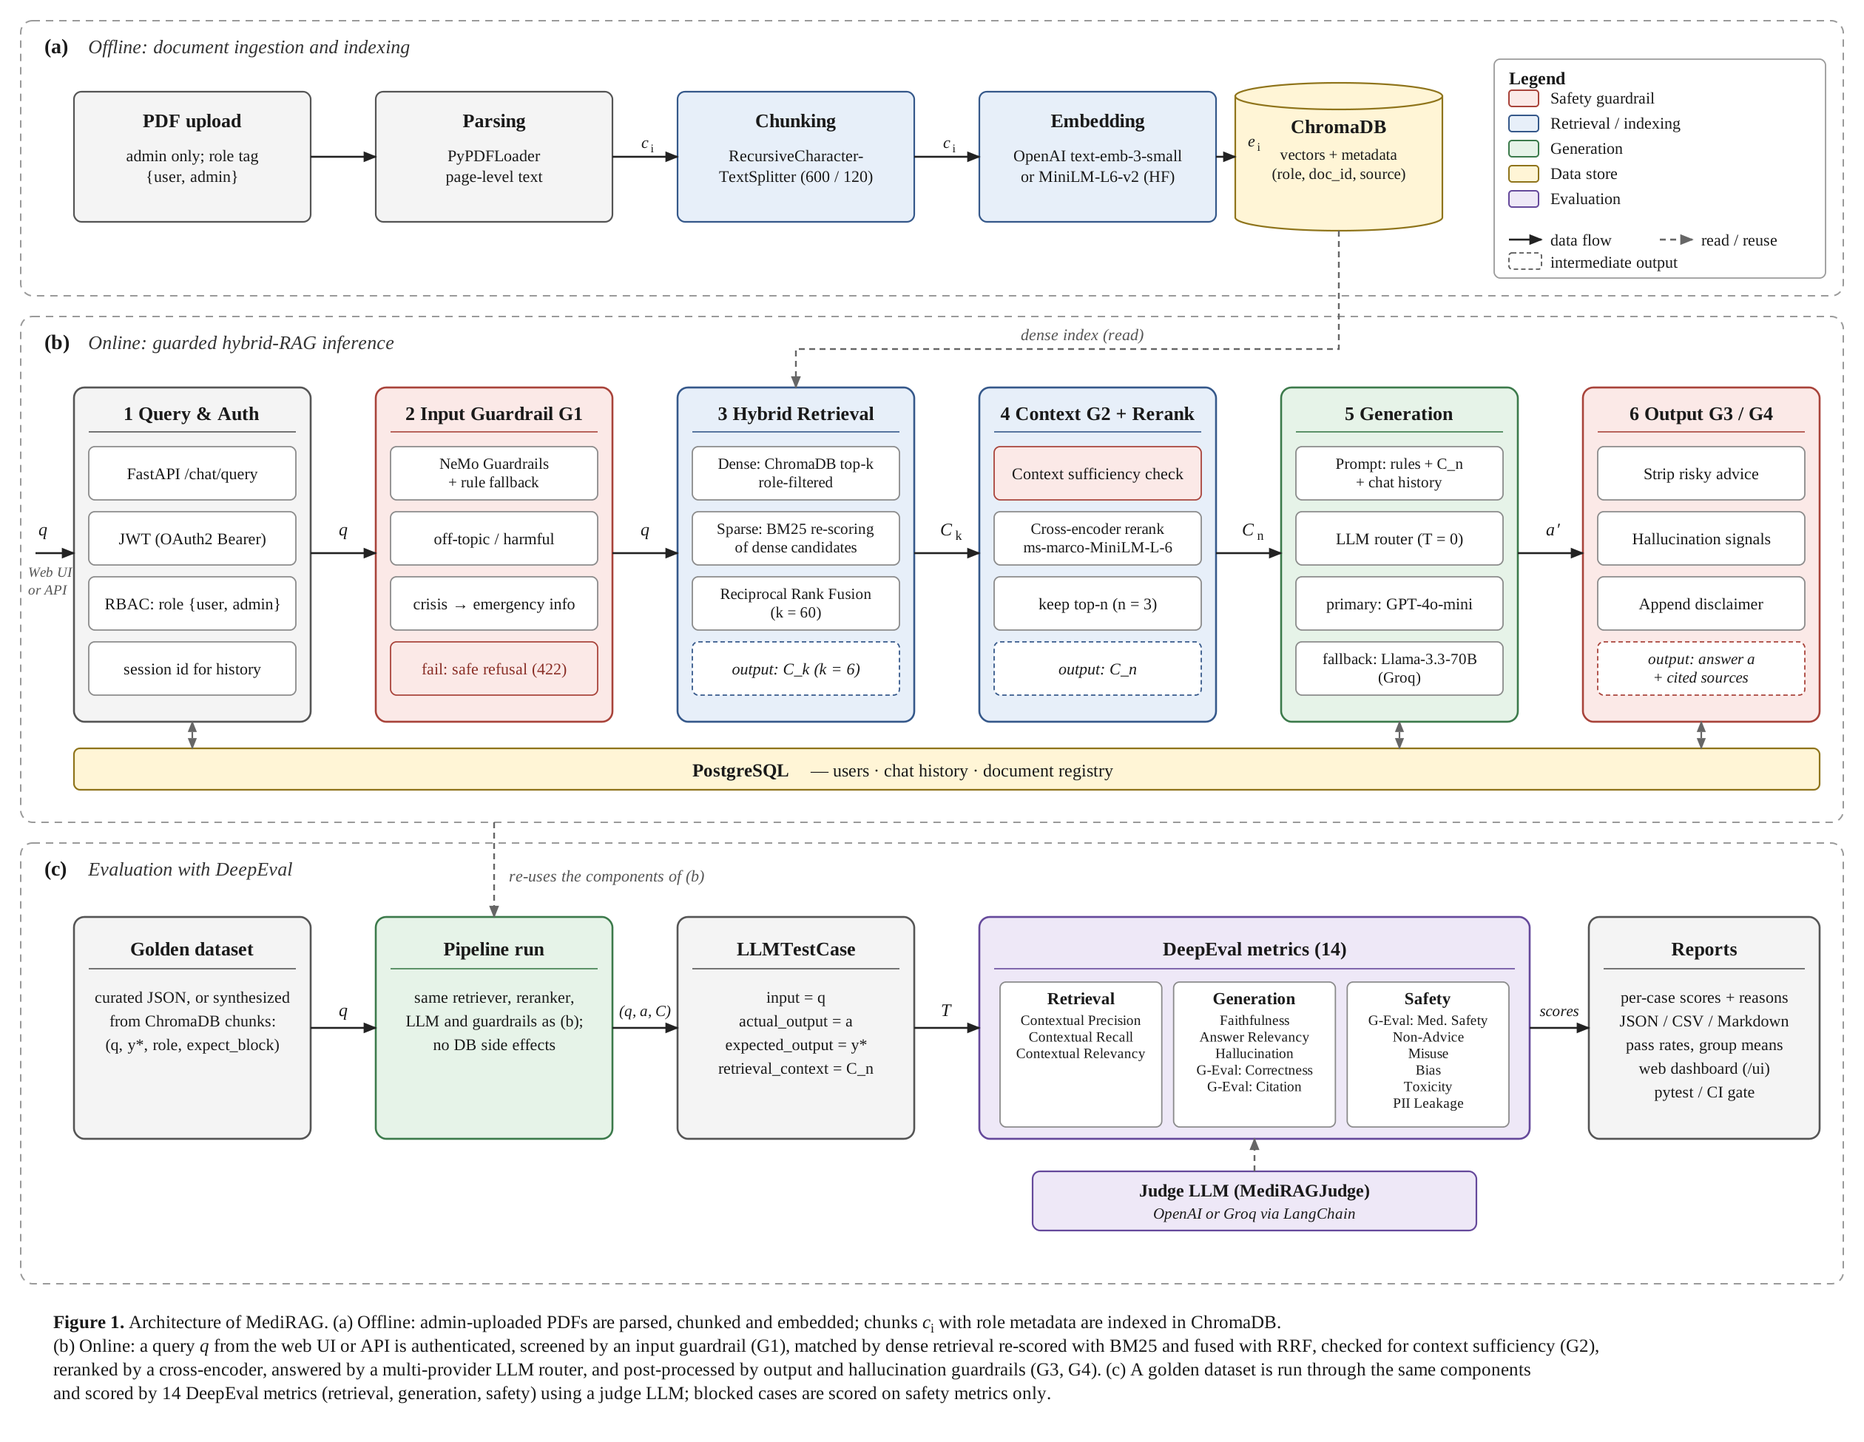
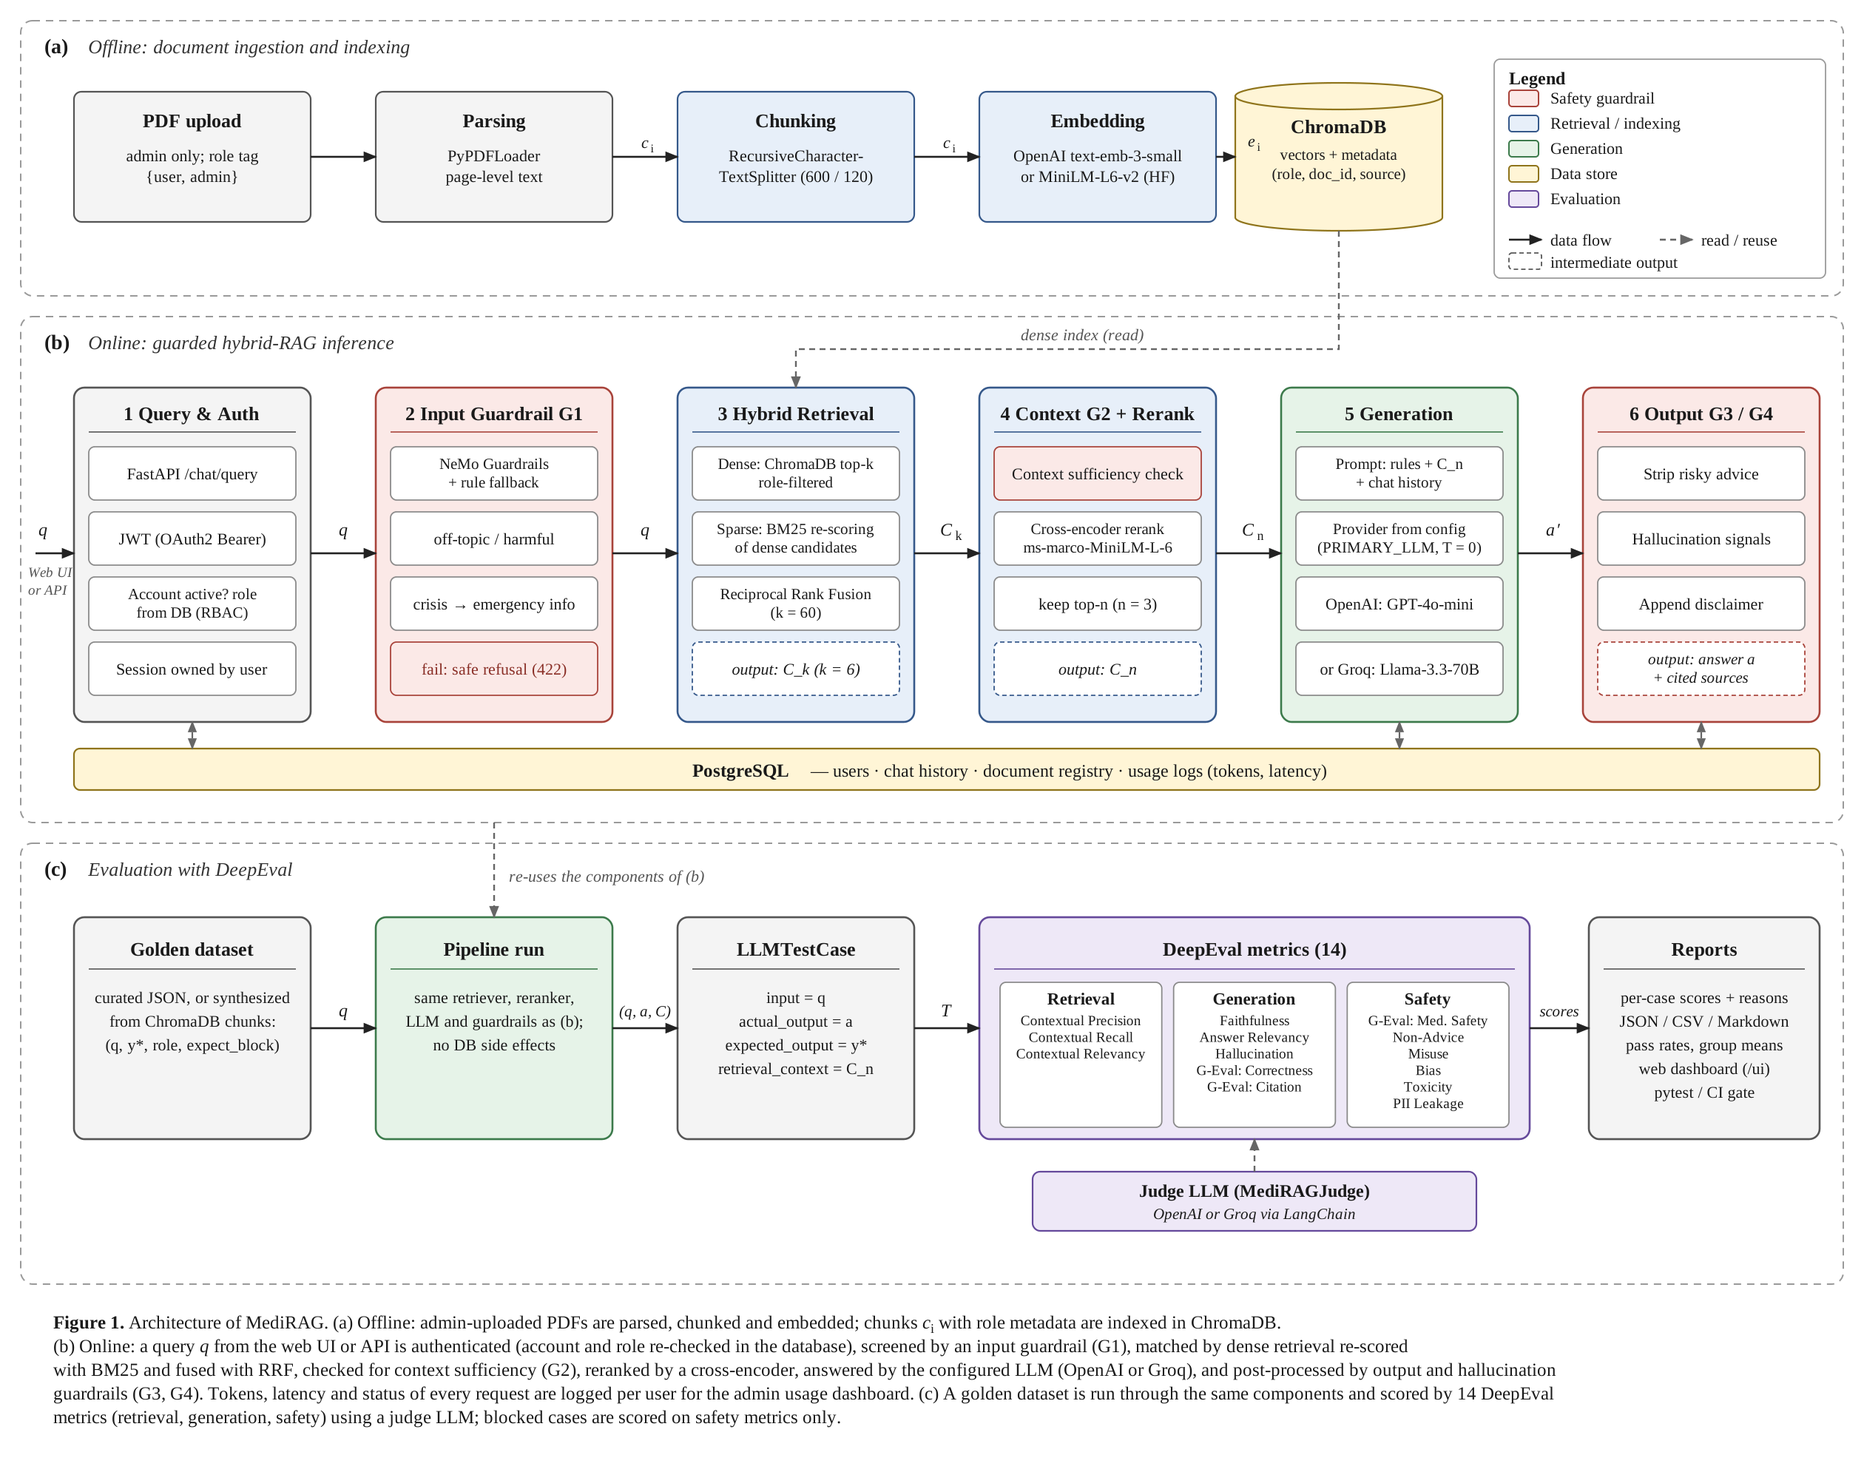
docs: usage dashboard, role model, accurate LLM-provider description; diagram shows account check, config-selected LLM and usage logs

diff --git a/docs/generate_architecture.py b/docs/generate_architecture.py
@@ -5,7 +5,7 @@
 """
 from xml.sax.saxutils import escape
 
-W, H = 1260, 975
+W, H = 1260, 995
 FONT = "'Times New Roman', Times, 'Liberation Serif', 'Nimbus Roman', serif"
 INK = "#1a1a1a"
 
@@ -120,7 +120,7 @@ xs = [50 + i * 204 for i in range(6)]
 stages = [
     ("1  Query &amp; Auth", "neutral", [
         ("FastAPI  /chat/query", None), ("JWT (OAuth2 Bearer)", None),
-        ("RBAC: role {user, admin}", None), ("session id for history", None)]),
+        ("Account active? role\nfrom DB (RBAC)", None), ("Session owned by user", None)]),
     ("2  Input Guardrail G1", "guard", [
         ("NeMo Guardrails\n+ rule fallback", None), ("off-topic / harmful", None),
         ("crisis -> emergency info", None), ("fail: safe refusal (422)", "red")]),
@@ -131,8 +131,8 @@ stages = [
         ("Context sufficiency check", "guard"), ("Cross-encoder rerank\nms-marco-MiniLM-L-6", None),
         ("keep top-n  (n = 3)", None), ("output: C_n", "io")]),
     ("5  Generation", "gen", [
-        ("Prompt: rules + C_n\n+ chat history", None), ("LLM router  (T = 0)", None),
-        ("primary: GPT-4o-mini", None), ("fallback: Llama-3.3-70B\n(Groq)", None)]),
+        ("Prompt: rules + C_n\n+ chat history", None), ("Provider from config\n(PRIMARY_LLM, T = 0)", None),
+        ("OpenAI: GPT-4o-mini", None), ("or Groq: Llama-3.3-70B", None)]),
     ("6  Output G3 / G4", "guard", [
         ("Strip risky advice", None), ("Hallucination signals", None),
         ("Append disclaimer", None), ("output: answer a\n+ cited sources", "io")]),
@@ -171,7 +171,7 @@ txt(19, yb + 140, "or API", size=9.5, style="italic", anchor="start", fill="#555
 ys = 506
 rect(50, ys, 1180, 28, *PAL["store"], rx=4, sw=1.1)
 txt(468, ys + 19, "PostgreSQL", size=12.5, weight="bold", anchor="start")
-txt(548, ys + 19, "&#8212;  users  &#183;  chat history  &#183;  document registry", size=12, anchor="start")
+txt(548, ys + 19, "&#8212;  users  &#183;  chat history  &#183;  document registry  &#183;  usage logs (tokens, latency)", size=12, anchor="start")
 for i, d in ((0, True), (4, True), (5, False)):
     cx = xs[i] + wb / 2
     arrow([(cx, yb + hb), (cx, ys)] if not d else [(cx, yb + hb), (cx, ys)], color="#666", dash="4 3", marker="ag", sw=1.1, both=True)
@@ -236,9 +236,10 @@ txt(344, 596, "re-uses the components of (b)", size=11, style="italic", anchor="
 # ═══════════════ caption ═══════════════
 cap = [
     '<tspan font-weight="bold">Figure 1.</tspan> Architecture of MediRAG. (a) Offline: admin-uploaded PDFs are parsed, chunked and embedded; chunks <tspan font-style="italic">c</tspan><tspan font-size="9" dy="3">i</tspan><tspan dy="-3"> </tspan>with role metadata are indexed in ChromaDB.',
-    '(b) Online: a query <tspan font-style="italic">q</tspan> from the web UI or API is authenticated, screened by an input guardrail (G1), matched by dense retrieval re-scored with BM25 and fused with RRF, checked for context sufficiency (G2),',
-    'reranked by a cross-encoder, answered by a multi-provider LLM router, and post-processed by output and hallucination guardrails (G3, G4). (c) A golden dataset is run through the same components',
-    'and scored by 14 DeepEval metrics (retrieval, generation, safety) using a judge LLM; blocked cases are scored on safety metrics only.',
+    '(b) Online: a query <tspan font-style="italic">q</tspan> from the web UI or API is authenticated (account and role re-checked in the database), screened by an input guardrail (G1), matched by dense retrieval re-scored',
+    'with BM25 and fused with RRF, checked for context sufficiency (G2), reranked by a cross-encoder, answered by the configured LLM (OpenAI or Groq), and post-processed by output and hallucination',
+    'guardrails (G3, G4). Tokens, latency and status of every request are logged per user for the admin usage dashboard. (c) A golden dataset is run through the same components and scored by 14 DeepEval',
+    'metrics (retrieval, generation, safety) using a judge LLM; blocked cases are scored on safety metrics only.',
 ]
 for i, l in enumerate(cap):
     txt(36, 898 + i * 16, l, size=12.5, anchor="start")

diff --git a/README.md b/README.md
@@ -49,7 +49,8 @@ RAG Medical Assistant is a production-ready Retrieval-Augmented Generation syste
 
 | Feature | Details |
 |---|---|
-| 🤖 Multi-model LLM | OpenAI gpt-4o-mini (primary) → Groq llama-3.3-70b (auto-fallback) |
+| 🤖 Two LLM providers | OpenAI gpt-4o-mini **or** Groq llama-3.3-70b, chosen at startup by `PRIMARY_LLM` (Groq is used when no OpenAI key is set); no automatic runtime failover |
+| 📊 Usage dashboard | Admin sees users, requests per user, tokens and estimated LLM cost; can disable accounts |
 | 🔍 Hybrid Search | Semantic (ChromaDB) + BM25 keyword + RRF fusion |
 | 🎯 Reranking | Cross-encoder ms-marco-MiniLM — reduces hallucination |
 | 🛡 4-Layer Guardrails | Input · Context · Output · Hallucination detection |
@@ -72,9 +73,13 @@ RAG Medical Assistant is a production-ready Retrieval-Augmented Generation syste
 | `POST` | `/api/v1/auth/signup` | — | Register user |
 | `POST` | `/api/v1/auth/login` | — | Login → JWT token |
 | `POST` | `/api/v1/documents/upload` | Admin | Upload PDF |
-| `GET` | `/api/v1/documents/list` | User | List accessible docs |
+| `GET` | `/api/v1/documents/list` | Admin | List all documents |
 | `POST` | `/api/v1/chat/query` | User | Ask a medical question |
 | `GET` | `/api/v1/chat/history/{session_id}` | User | Get chat history |
+| `GET` | `/api/v1/admin/usage/summary?days=7` | Admin | KPIs, requests per day, per-model totals |
+| `GET` | `/api/v1/admin/usage/users?days=7` | Admin | Every user: requests, tokens, est. cost, last login |
+| `GET` | `/api/v1/admin/usage/recent` | Admin | Latest requests (metadata only) |
+| `PATCH` | `/api/v1/admin/users/{username}/active` | Admin | Enable / disable an account |
 | `GET` | `/api/v1/evaluation/options` | Admin | Metrics, datasets, judge status |
 | `POST` | `/api/v1/evaluation/run` | Admin | Start a DeepEval run (background job) |
 | `POST` | `/api/v1/evaluation/datasets/synthesize` | Admin | Generate a test set from indexed documents |
@@ -139,15 +144,16 @@ Open **http://localhost:8000**. The first start is slower: PostgreSQL tables are
 2. **Documents tab → Upload a document.** Pick a PDF and who may use it:
    *Everyone* (users **and** admins can retrieve it) or *Admins only*. It is parsed, chunked and indexed.
 3. **Chat tab** — ask a few questions to sanity-check the answers and the cited sources.
-4. **Evaluation tab** (admin only):
+4. **Usage tab** — see who is using the chatbot (see *Reading the Usage tab* below) and disable accounts if needed.
+5. **Evaluation tab** (admin only):
    1. Click **Generate test set from my documents** (the judge LLM writes a question + reference answer per sampled chunk). The bundled `golden_dataset.json` is generic and will score poorly on *your* documents.
    2. Choose the metrics (all 14 by default), optionally limit the number of cases (start with 5–10), and press **Run evaluation**. A progress bar follows the job; the page stays usable.
    3. Read the dashboard (see below). Download **MD / CSV / JSON** for reports or papers.
 
 ### 3 · Normal user workflow
 
-1. **Sign up** as *User* (no code needed) and log in.
-2. **Chat tab** → type a medical question (or click an example). You get:
+1. **Sign up** as *User* (no code needed) and log in. Every request needs a valid login; an admin can disable your account at any time (you are then signed out immediately).
+2. Users only **chat** — they never see Documents, Usage or Evaluation. **Chat tab** → type a medical question (or click an example). You get:
    - an answer built **only from the documents you have access to**, ending with a medical disclaimer;
    - **source chips** — click one to see the passage that was used;
    - a refusal bubble (yellow) if the safety guardrails block the request (off-topic, harmful, crisis…).
@@ -156,13 +162,35 @@ Open **http://localhost:8000**. The first start is slower: PostgreSQL tables are
 
 | | User | Admin |
 |---|:-:|:-:|
-| Chat, sources, history | ✅ | ✅ |
+| Chat, sources, own chat history | ✅ | ✅ |
 | Retrieves documents tagged *Everyone* | ✅ | ✅ |
 | Retrieves documents tagged *Admins only* | ❌ | ✅ |
-| Upload documents | ❌ | ✅ |
+| See / upload documents (Documents tab) | ❌ | ✅ |
+| Usage dashboard, enable/disable users | ❌ | ✅ |
 | Evaluation tab / `/evaluation/*` API | ❌ | ✅ |
 
-### 4 · Reading the evaluation dashboard
+The server re-checks the account **in the database on every request**, so disabling or demoting a user takes
+effect immediately (not when their token expires). Chat sessions are private to the user who started them — even admins cannot read another user's chat.
+
+### 4 · Reading the Usage tab (admin)
+
+Pick a range (24 h · 7 d · 30 d · 90 d · all time); the page refreshes every 30 s.
+
+- **KPI cards** — registered users, *active users* (sent ≥ 1 request in the range), requests (with blocked / error counts),
+  LLM tokens (prompt in · completion out), **estimated** LLM cost, average response time.
+- **Requests per day** chart (hover a bar for tokens and users) and a **per-model** table.
+- **Users table** — every registered user, even those with 0 requests: requests, blocked / errors, tokens in / out / total,
+  estimated cost, average latency, last request, last login. Click a username to see only their recent requests.
+  **Disable / Enable** blocks or restores an account (you cannot disable yourself).
+- **Recent requests** — time, user, result (`ok` / `blocked` / `error`), model, tokens, latency.
+
+What is (not) recorded: per request only *metadata* (user, time, status, model, tokens, latency) — **never the question or answer text**.
+Tokens are the provider's reported usage (a ~4 chars/token estimate is used only if a provider reports none). Cost is an **estimate**
+from a built-in price table (`app/core/pricing.py`) — verify against your provider's pricing and override with
+`LLM_PRICE_INPUT_PER_1M` / `LLM_PRICE_OUTPUT_PER_1M`. Only the main answer-generation call is counted: NeMo guardrail
+calls and the evaluation judge are **not** included. Usage rows are kept indefinitely (no retention job yet).
+
+### 5 · Reading the evaluation dashboard
 
 - **Bars** show each metric's mean score (0–1); the black tick is the pass threshold. **↓** metrics
   (Hallucination, Bias, Toxicity) are *lower-is-better*. Colour follows the **pass rate** (green ≥ 80 %, amber ≥ 50 %).
@@ -173,7 +201,7 @@ Open **http://localhost:8000**. The first start is slower: PostgreSQL tables are
 - **Guardrail accuracy** = share of cases where the guardrail blocked exactly what the dataset says it should.
 - Every case makes several judge-LLM calls, so a run **costs API tokens** and takes minutes. Set `EVAL_JUDGE_MODEL` to a stronger model for more reliable judging. Only one run can be active at a time; finished reports are kept in `evaluation/reports/`.
 
-### 5 · Using the API directly (optional)
+### 6 · Using the API directly (optional)
 
 ```bash
 BASE=http://localhost:8000/api/v1
@@ -185,15 +213,16 @@ curl -X POST $BASE/chat/query -H "Authorization: Bearer $TOKEN" -H 'Content-Type
      -d '{"message":"What are the symptoms of diabetes?","session_id":"demo-1"}'
 ```
 
-Admin-only calls (`/documents/upload`, `/evaluation/run`, …) need an admin token — see the interactive docs at `/docs`.
+Admin-only calls (`/documents/upload`, `/documents/list`, `/admin/usage/*`, `/evaluation/*`) need an admin token — see the interactive docs at `/docs`.
 
-### 6 · Good to know
+### 7 · Good to know
 
 - This is an **educational tool, not medical advice**; answers are limited to your uploaded documents.
 - Evaluation test cases run with the dataset's `role` (default `user`), so only documents tagged *Everyone* are evaluated.
 - Evaluation job *status* lives in memory (lost on restart); finished *reports* are files and persist.
 - Hybrid retrieval re-scores the dense (ChromaDB) candidates with BM25 and fuses both rankings with RRF; BM25 does not search the whole corpus independently.
-- Known limitation: `GET /chat/history/{session_id}` does not check that the session belongs to the caller — session ids are random UUIDs, but treat them as secrets.
+- The LLM provider is chosen at startup (`PRIMARY_LLM`, or Groq if there is no OpenAI key). There is no automatic switch to the other provider if a call fails — the user gets an error and it is logged as `error` in the Usage tab.
+- Chat sessions that existed before the ownership feature have no owner and are no longer readable through the API.
 
 ---
 
@@ -213,7 +242,7 @@ docker compose down              # Stop
 | Variable | Required | Default | Description |
 |---|---|---|---|
 | `OPENAI_API_KEY` | ✅* | — | OpenAI key (*or Groq) |
-| `GROQ_API_KEY` | ✅* | — | Groq key (fallback LLM) |
+| `GROQ_API_KEY` | ✅* | — | Groq key (used when `PRIMARY_LLM=groq` or there is no OpenAI key) |
 | `JWT_SECRET_KEY` | ✅ | — | Secret for JWT signing |
 | `POSTGRES_PASSWORD` | ✅ | — | PostgreSQL password |
 | `ADMIN_SIGNUP_CODE` | ✅ (prod) | — | Code required to sign up as admin. Empty = admin signup allowed in development, **disabled** in production |
@@ -224,6 +253,7 @@ docker compose down              # Stop
 | `ENABLE_GUARDRAILS` | ⬜ | `true` | Enable 4-layer guardrails |
 | `RETRIEVER_K` | ⬜ | `6` | Docs to retrieve before rerank |
 | `RERANKER_TOP_N` | ⬜ | `3` | Docs sent to LLM after rerank |
+| `LLM_PRICE_INPUT_PER_1M` / `LLM_PRICE_OUTPUT_PER_1M` | ⬜ | built-in table | Flat USD price per 1M tokens for the dashboard's cost **estimate** |
 | `EVAL_JUDGE_PROVIDER` | ⬜ | = `PRIMARY_LLM` | Judge LLM for evaluation: `openai` or `groq` |
 | `EVAL_JUDGE_MODEL` | ⬜ | provider default | Use a stronger model for more reliable scores |
 
@@ -326,26 +356,38 @@ python -m evaluation.run_eval --dataset evaluation/data/synthetic.json
 Golden record format: `id`, `input`, `expected_output`, `category`
 (`factual | safety | off_topic | crisis | out_of_kb`), `role`, `expect_block`.
 
+### Running the tests
+
+```bash
+pytest evaluation tests -v        # DB tests use a throw-away database; skipped if PostgreSQL is unreachable
+# point them at your server with POSTGRES_HOST / POSTGRES_USER / POSTGRES_PASSWORD
+cd tests/ui && npm install jsdom  # UI end-to-end tests (see the header of tests/ui/e2e_server.py)
+```
+
 ---
 
 ## 📁 Project Structure
 
 ```
-RAG-Medical-Assistant/
+MediRAG/
 ├── app/
 │   ├── api/
 │   │   └── v1/
 │   │       ├── __init__.py        # Router aggregator
 │   │       ├── auth.py            # Signup, login (JWT)
 │   │       ├── chat.py            # POST /chat/query, GET /chat/history
-│   │       ├── documents.py       # POST /documents/upload, GET /list
+│   │       ├── documents.py       # POST /documents/upload, GET /list (admin only)
+│   │       ├── admin.py           # Usage analytics + enable/disable users (admin only)
+│   │       ├── evaluation.py      # DeepEval runs, datasets, reports (admin only)
 │   │       └── health.py          # GET /health
 │   ├── core/
 │   │   ├── config.py              # Pydantic settings (all from .env)
-│   │   └── security.py            # JWT create/decode, password hashing
+│   │   ├── pricing.py             # LLM cost estimate table
+│   │   └── security.py            # JWT + per-request account check, password hashing
 │   ├── db/
 │   │   ├── database.py            # psycopg2 connection pool
-│   │   └── models.py              # Table creation + CRUD
+│   │   ├── models.py              # Table creation/migrations + users, sessions, docs CRUD
+│   │   └── usage.py               # usage_logs writes + dashboard aggregate queries
 │   ├── guardrails/
 │   │   └── nemo_guardrails.py     # NeMo Guardrails + rule fallback
 │   ├── rag/
@@ -360,7 +402,8 @@ RAG-Medical-Assistant/
 │   │   │   └── cross_encoder.py   # ms-marco-MiniLM reranker
 │   │   ├── chain.py               # Full RAG pipeline
 │   │   ├── ingestion.py           # PDF → chunks → ChromaDB
-│   │   ├── llm_router.py          # OpenAI / Groq selection
+│   │   ├── llm_router.py          # OpenAI / Groq selection (config-time)
+│   │   ├── llm_usage.py           # Read token usage from LLM replies
 │   │   └── vectorstore.py         # ChromaDB singleton
 │   ├── schemas/
 │   │   ├── auth.py                # SignupRequest, TokenResponse
@@ -370,7 +413,8 @@ RAG-Medical-Assistant/
 │       ├── logger.py              # Rotating file + console logger
 │       └── exceptions.py          # RAGException, GuardrailException
 ├── app/static/                    # Web UI (index.html, app.js, style.css — no build step)
-├── tests/ui/                      # jsdom end-to-end UI test + stub server
+├── tests/                         # pytest: usage SQL + HTTP integration (real PostgreSQL)
+│   └── ui/                        # jsdom end-to-end UI tests (stub + real backend)
 ├── evaluation/                    # DeepEval RAG evaluation suite
 │   ├── judge.py                   # Judge LLM (OpenAI / Groq)
 │   ├── metrics.py                 # 14 metrics, grouped
